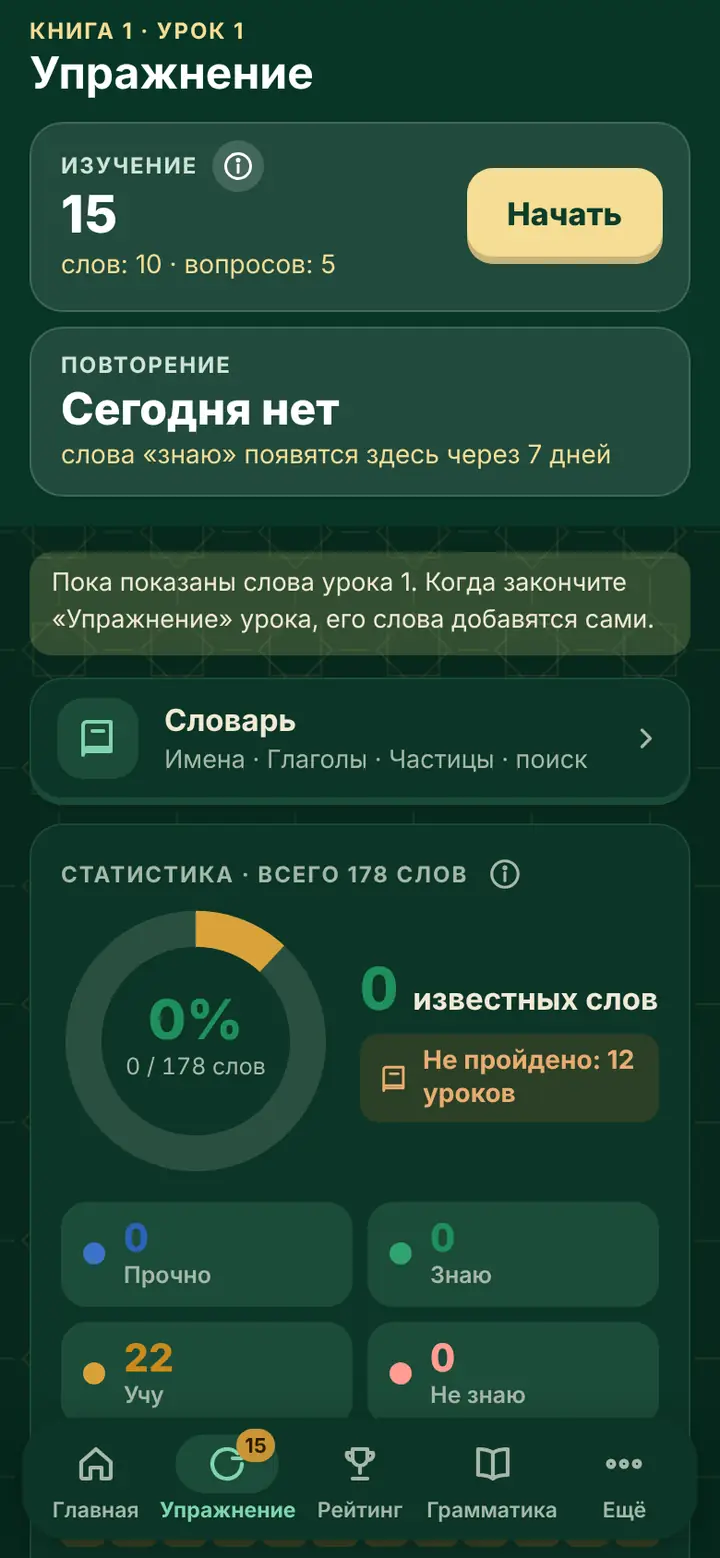
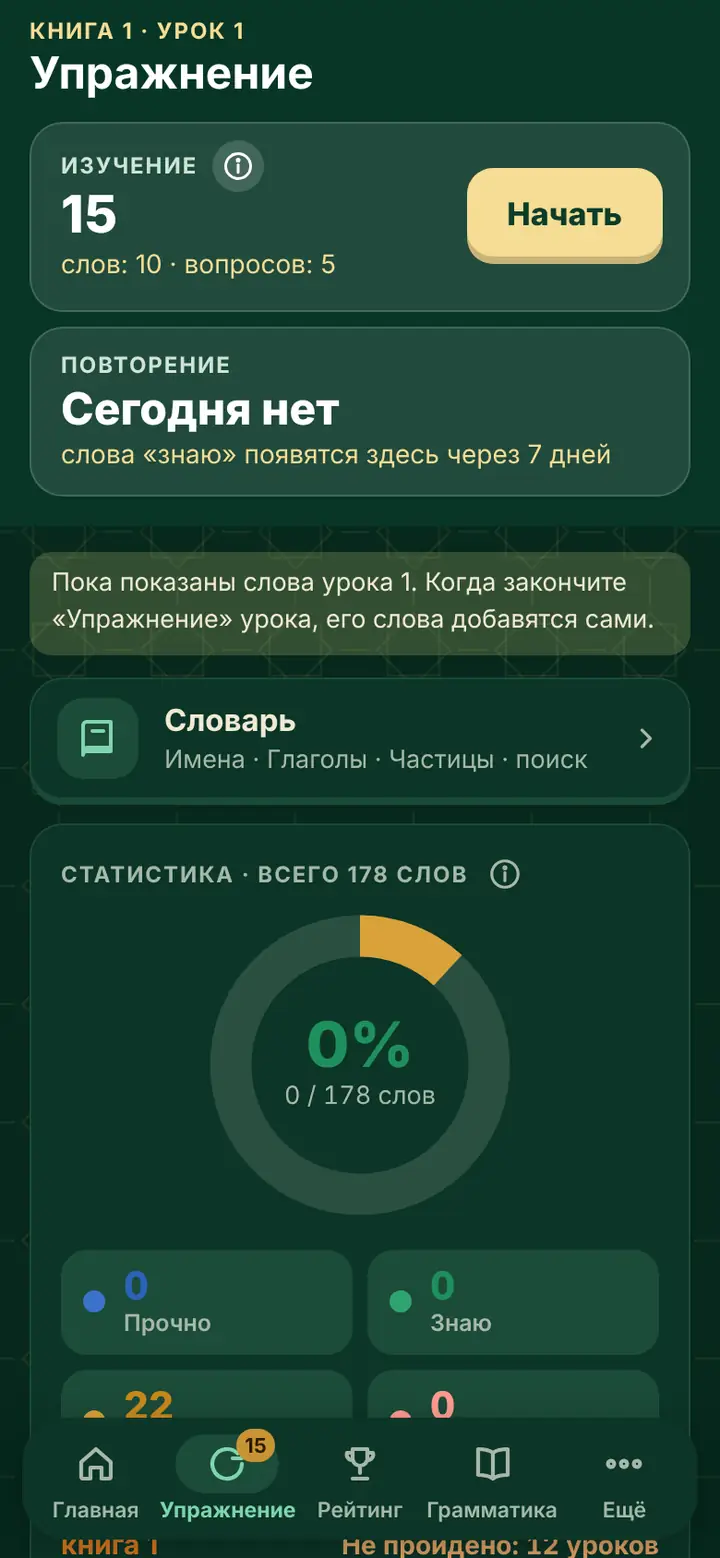
Машқ statistikasi soddalashdi: doira yonidagi takror yozuvlar olib tashlandi
Foydalanuvchi: «ortiqcha narsa, ortiqcha so'zlar kerak emas». «N сўзни биламан»,
«шундан … мустаҳкам», «N та дарс ўтилмаган» — pastdagi kartalar va kitob
qatorlarida bor; doira yolg'iz, o'rtada. Yo'riqnoma rasmlari qayta olindi.

Claude-Session: https://claude.ai/code/session_016qH1rRc63acz83KS5jFWgn

Changed region(s): [[0.0917, 0.5854, 0.9167, 0.9243], [0.0611, 0.9859, 0.9167, 1.0]]

diff --git a/takror.html b/takror.html
@@ -220,21 +220,16 @@ button:focus-visible,a:focus-visible{outline:2px solid var(--ac);outline-offset:
 .mq-i svg{width:18px;height:18px}
 .mq-i2{width:40px;height:40px;margin:0 0 0 auto}.mq-i2 svg{width:22px;height:22px}
 .lg-yn.mq-yn{margin:0 0 12px}
-.mq-dt{display:flex;align-items:center;gap:16px;margin:8px 0 14px}
-.mq-dz{position:relative;width:146px;height:146px;flex-shrink:0}
+/* 23.11.2026 (foydalanuvchi: «ortiqcha so'zlar kerak emas»): doira yolg'iz, o'rtada — o'ngdagi «N сўзни биламан», «шундан … мустаҳкам», «N та дарс ўтилмаган» olib tashlandi (pastdagi kartalar va kitob qatorlari takrorlardi) */
+.mq-dt{display:flex;align-items:center;justify-content:center;margin:10px 0 16px}
+.mq-dz{position:relative;width:168px;height:168px;flex-shrink:0}
 .mq-dz svg{width:100%;height:100%;transform:rotate(-90deg)}
 .mq-dz circle{fill:none;stroke-width:16}
 .mq-dz .m{stroke:#3a73cc}.mq-dz .g{stroke:#2fa36f}.mq-dz .o{stroke:#d9a23a}.mq-dz .b{stroke:var(--tq-no)}.mq-dz .n{stroke:color-mix(in srgb,var(--mu) 20%,transparent)}
 .mq-dz>div{position:absolute;inset:0;display:flex;flex-direction:column;align-items:center;justify-content:center}
-.mq-dz>div b{font-size:30px;line-height:1.05;font-weight:800;color:#1f8f5c}
-.mq-dz>div span{font-size:12.5px;color:var(--mu);font-variant-numeric:tabular-nums}
-.mq-dy{display:flex;flex-direction:column;gap:3px;min-width:0}
-.mq-dy .lg-bn{margin:0;flex-wrap:wrap;gap:4px 8px}.mq-dy .lg-bn b{font-size:32px}.mq-dy .lg-bn span{font-size:16.5px;font-weight:700;color:var(--tx)}
-.mq-dy em{font-style:normal;font-size:13.5px;font-weight:600;color:#2c63b8}
-.mq-dy small{font-size:13px;line-height:1.35;color:var(--mu)}
-/* o'tilmagan darslar (15.11.2026, A ko'rinish): sarlavha ostida «N та дарс ўтилмаган», kitob qatorida — har dars bitta bo'lak */
-.mq-qd{display:inline-flex;align-self:flex-start;align-items:center;gap:7px;margin:5px 0 0;padding:6px 10px;border-radius:10px;background:color-mix(in srgb,#E07A1F 15%,transparent);color:color-mix(in srgb,#E07A1F 55%,var(--tx));font-size:14px;font-weight:700;line-height:1.3}
-.mq-qd svg{flex:none;width:17px;height:17px}
+.mq-dz>div b{font-size:34px;line-height:1.05;font-weight:800;color:#1f8f5c}
+.mq-dz>div span{font-size:13.5px;color:var(--mu);font-variant-numeric:tabular-nums}
+/* o'tilmagan darslar (15.11.2026, A ko'rinish): kitob qatorida «N та дарс ўтилмаган», har dars bitta bo'lak */
 .mq-5{display:grid;grid-template-columns:1fr 1fr;gap:8px}
 .mq-c{display:flex;align-items:center;gap:10px;min-width:0;padding:9px 12px;border-radius:14px;border:0;background:var(--tint);text-align:left;color:var(--tx)}
 .mq-c.n{grid-column:1/-1;background:color-mix(in srgb,var(--mu) 9%,transparent)}
@@ -588,9 +583,7 @@ document.write('<script src="' + SN + 'takror.js"><\/script>');   /* 23.11.2026:
       app.innerHTML = tepa(S, false, bg, t) + sinovQ + (saralangan ? '' : '<p class="lg-yn mq-yn">Ҳозирча 1-дарс сўзлари кўрсатиляпти. Дарс «Машқ»ини тугатсангиз, унинг сўзлари ўзи қўшилади.</p>') +
         '<a class="q-rw mq-lg" href="#lugat"><span class="q-ib">' + KITOB + '</span><span class="t">Луғат<small>Исм · Феъл · Ҳарф · қидирув' + (ca.b ? ' · Билмаганларим ' + ca.b : '') + '</small></span>' + CHV + '</a>' +
         '<section class="tq-c"><div class="tq-h">Статистика · жами ' + JJ + ' сўз<button class="tq-ib" id="bi" data-qol="soz" aria-label="Сўзлар ва поғоналар — кўрсатма">' + INF + '</button></div>' +
-        '<div class="mq-dt"><div class="mq-dz">' + doira(JA, JJ) + '<div><b>' + Math.round((JA.m + JA.g) * 100 / (JJ || 1)) + '%</b><span>' + (JA.m + JA.g) + ' / ' + JJ + ' сўз</span></div></div>' +
-          '<div class="mq-dy"><div class="lg-bn"><b>' + (ca.g + ca.m) + '</b><span>сўзни биламан</span></div>' + (ca.m ? '<em>шундан ' + ca.m + ' таси мустаҳкам</em>' : '') +
-          '<p class="mq-qd">' + KITOB + '<span>' + (DH.q ? DH.q + ' та дарс ўтилмаган' : 'Ҳамма дарслар ўтилди') + '</span></p>' + '</div></div>' +
+        '<div class="mq-dt"><div class="mq-dz">' + doira(JA, JJ) + '<div><b>' + Math.round((JA.m + JA.g) * 100 / (JJ || 1)) + '%</b><span>' + (JA.m + JA.g) + ' / ' + JJ + ' сўз</span></div></div></div>' +
         '<div class="mq-5" role="group" aria-label="Ҳолат бўйича">' + ['m', 'g', 'o', 'b'].map(function (k) {
           return '<button class="mq-c ' + k + '" data-h="' + k + '"><i></i><span><b>' + JA[k] + '</b>' + HN5[k] + '</span></button>'; }).join('') + '</div>' +
         '<div class="mq-hl"></div>' + DH.kq.map(function (k) {   /* kitob qatori: «N та дарс ўтилмаган», har dars — bo'lak (30 tadan ko'p bo'lsa — bitta chiziq), ostida so'zlar */

diff --git a/docs/texnik.md b/docs/texnik.md
@@ -454,11 +454,11 @@ Umumiy reja (hisob, server, reyting, app — bosqichlar) — `docs/rejalar.md` 1
 
 ## 19. «Машқ» va «Рейтинг» (14.11.2026, foydalanuvchi qarori; dizayn — ikkala bo'limda 2-variant: https://claude.ai/artifact/HptYYYpetUFM84qJyrHYa1; saytda 14.11.2026 dan)
 - **Pastki tugmalar — 5 ta** (`qobiq.js` `B`): Бош саҳифа · **Машқ** (oldin «Луғат»; kalit `takror`, fayl `takror.html` o'zgarmadi) · **Рейтинг** (`reyting.html`, kalit `reyting`) · Қоидалар · Яна.
-- **«Машқ» bosh ko'rinishi** (`takror.html` `lugat()` → `lugKor()` yolg'on): yashil tasma ichida «Бугунги такрор · N та» (`E.bugun().soz + savol`), «N сўз · M савол», sariq «Бошлаш» (`#go`); tugasa — «Бугунга тамом · эртага N та». Ostida: «Луғат» qatori (`.mq-lg` → `#lugat`; «Исм · Феъл · Ҳарф · қидирув · Билмаганларим N»), «Статистика · жами N сўз» kartasi (ⓘ — «Сўзлар ва поғоналар» ko'rsatmasi, 20). **14.11.2026 kech (foydalanuvchi: chiziq to'lib, «hammasini bilaman»dek chalg'itardi; Claude Design'dagi C variant):** hisob **butun kitob so'zlari** bo'yicha — katta doira `doira()` (SVG halqa, 5 qism: 🔵 мустаҳкам · 🟢 биламан · 🟡 ўрганяпман · 🔴 билмайман · ⚪ ҳали ўтилмаган = «mening so'zlarim»ga hali kirmagan so'z), o'rtasida % va «biladigan / jami»; yonida «N сўзни биламан», «шундан M таси мустаҳкам», «K таси ҳали ўтилмаган»; 5 katak `.mq-c` (n dan boshqasi bosilsa — Луғат shu holat bilan); har kitobga 5 rangli chiziq `.mq-kb` «b / jami сўз · N таси қолди» (hamma kitoblar, ruschasi yo'q dars kirmaydi); turlar bo'yicha bilgan so'zlar `.mq-tr`. Dizayn: https://claude.ai/artifact/HptYYYpetUFM84qJyrHYa1 (C), «Рейтинг» qatori («Бу ҳафта N балл · M сўз») — **19.11.2026 da olib tashlandi** (foydalanuvchi: pastki menyuda «Рейтинг» bor — takror; `KUBOK`, `.mq-ib2` ham). Statistika hamma so'zlar bo'yicha (tur filtri `LT` ta'sir qilmaydi). **15.11.2026 (foydalanuvchi: qolganini so'z emas, dars soni bilan ko'rsatish — Claude Design'dagi A variant, ikkala tilda):** «N сўзни биламан» ostida `.mq-qd` — «N та дарс ўтилмаган» (hammasi o'tilgan bo'lsa «Ҳамма дарслар ўтилди»); 4 katak (мустаҳкам · биламан · ўрганяпман · билмайман; «ҳали ўтилмаган» katagi olib tashlandi, doirada kulrang qism qoldi); har kitob qatori (`.mq-kb`): «N-китоб» + «N та дарс ўтилмаган» / «Ҳаммаси ўтилди ✓», har dars bitta bo'lak (`i.ds`, o'tilgani — kitob rangida; 30 tadan ko'p bo'lsa — bitta chiziq), ostida «9 дарсдан 3 таси ўтилди · b / j сўз». O'tilgan dars — `darsH()`: bosh sahifa hisobi `yol-xulosa`.`ot` (yol.html `hisobla()` yozadi: «Машқ» 80% yoki bob/kitob imtihoni), u hali bo'lmasa — `W.s`; ruschasi yo'q («тез орада») dars sanalmaydi. `lugat()` dagi ishlatilmay qolgan «Луғат» kitob xulosasi (`kitobQ`, «сараланмаган» qatori) olib tashlandi. Ruscha matnlar — `src/ru/lugat-qobiq.txt` («Не пройдено: N {урок|урока|уроков}», «Из 9 уроков пройдено 3 · …»).
+- **«Машқ» bosh ko'rinishi** (`takror.html` `lugat()` → `lugKor()` yolg'on): yashil tasma ichida «Бугунги такрор · N та» (`E.bugun().soz + savol`), «N сўз · M савол», sariq «Бошлаш» (`#go`); tugasa — «Бугунга тамом · эртага N та». Ostida: «Луғат» qatori (`.mq-lg` → `#lugat`; «Исм · Феъл · Ҳарф · қидирув · Билмаганларим N»), «Статистика · жами N сўз» kartasi (ⓘ — «Сўзлар ва поғоналар» ko'rsatmasi, 20). **14.11.2026 kech (foydalanuvchi: chiziq to'lib, «hammasini bilaman»dek chalg'itardi; Claude Design'dagi C variant):** hisob **butun kitob so'zlari** bo'yicha — katta doira `doira()` (SVG halqa, 5 qism: 🔵 мустаҳкам · 🟢 биламан · 🟡 ўрганяпман · 🔴 билмайман · ⚪ ҳали ўтилмаган = «mening so'zlarim»ga hali kirmagan so'z), o'rtasida % va «biladigan / jami»; yonida «N сўзни биламан», «шундан M таси мустаҳкам», «K таси ҳали ўтилмаган»; 5 katak `.mq-c` (n dan boshqasi bosilsa — Луғат shu holat bilan); har kitobga 5 rangli chiziq `.mq-kb` «b / jami сўз · N таси қолди» (hamma kitoblar, ruschasi yo'q dars kirmaydi); turlar bo'yicha bilgan so'zlar `.mq-tr`. Dizayn: https://claude.ai/artifact/HptYYYpetUFM84qJyrHYa1 (C), «Рейтинг» qatori («Бу ҳафта N балл · M сўз») — **19.11.2026 da olib tashlandi** (foydalanuvchi: pastki menyuda «Рейтинг» bor — takror; `KUBOK`, `.mq-ib2` ham). Statistika hamma so'zlar bo'yicha (tur filtri `LT` ta'sir qilmaydi). **15.11.2026 (foydalanuvchi: qolganini so'z emas, dars soni bilan ko'rsatish — Claude Design'dagi A variant, ikkala tilda):** «N сўзни биламан» ostida `.mq-qd` — «N та дарс ўтилмаган» (hammasi o'tilgan bo'lsa «Ҳамма дарслар ўтилди»); 4 katak (мустаҳкам · биламан · ўрганяпман · билмайман; «ҳали ўтилмаган» katagi olib tashlandi, doirada kulrang qism qoldi); har kitob qatori (`.mq-kb`): «N-китоб» + «N та дарс ўтилмаган» / «Ҳаммаси ўтилди ✓», har dars bitta bo'lak (`i.ds`, o'tilgani — kitob rangida; 30 tadan ko'p bo'lsa — bitta chiziq), ostida «9 дарсдан 3 таси ўтилди · b / j сўз». O'tilgan dars — `darsH()`: bosh sahifa hisobi `yol-xulosa`.`ot` (yol.html `hisobla()` yozadi: «Машқ» 80% yoki bob/kitob imtihoni), u hali bo'lmasa — `W.s`; ruschasi yo'q («тез орада») dars sanalmaydi. `lugat()` dagi ishlatilmay qolgan «Луғат» kitob xulosasi (`kitobQ`, «сараланмаган» qatori) olib tashlandi. Ruscha matnlar — `src/ru/lugat-qobiq.txt` («Не пройдено: N {урок|урока|уроков}», «Из 9 уроков пройдено 3 · …»). **23.11.2026 (foydalanuvchi: «ortiqcha narsa, ortiqcha so'zlar kerak emas — hammasi sodda va tushunarli bo'lsin»):** doira yonidagi ustun (`.mq-dy`) olib tashlandi — «N сўзни биламан» (doirada «N / jami сўз» bor; «Биламан» katagidagi son bilan chalkashardi), «шундан M таси мустаҳкам» («Мустаҳкам» katagi bor), `.mq-qd` «N та дарс ўтилмаган» (kitob qatorlarida bor); doira yolg'iz, o'rtada (168px). Yo'riqnoma rasmlari (`qol/*-mashq`, `*-tamom`) qayta olindi.
 - **«Луғат» ko'rinishi** — shu sahifa, manzil `#lugat` (`#harflar` ham): tepada ‹ (orqaga — «Машқ»dan kelgan bo'lsa `history.back()`, aks holda manzil tozalanadi), 4 daraja filtri, qidiruv, turlar, ro'yxat — avvalgidek. `hashchange` — qayta chiziladi (mashg'ulot paytida emas).
 - **Reyting balli — `takror.js` `Takror.ball(jurnal, dan, gacha)`** (server ham shu funksiya bilan hisoblaydi): to'g'ri javob — 1 (bitta karta kuniga bir marta); so'z «биламан»ga yetsa (turli kunlarda ketma-ket 3 marta to'g'ri — `kunlar()` bilan bir xil) — +5, har so'zga bir marta; kuniga ko'pi bilan 200; 700 ms dan tez javob — ball yo'q; xato — minus yo'q. Kun va hafta — Toshkent vaqti (UTC+5) hamma uchun; hafta dushanba 00:00 dan (`Takror.haftaBoshi(t)`). Sozlamasi `Takror.REY`.
 - **Ruscha reyting (21.11.2026, foydalanuvchi: ruschada reyting alohida):** server hujjatning `ru` qismidan alohida hisoblaydi — kalitlar `rey:ru:h:<hb>`, `rey:ru:s` (ism umumiy `rey:ism`); `POST /api/reyting {kod, til:'ru'}` — ruscha ro'yxat (`reyting.html` ruscha profilda `til` yuboradi). Ikkala tilda o'qigan o'quvchi ikkala ro'yxatda o'z bali bilan.
-- **«Рейтинг» sahifasi** (`reyting.html`): «Ҳафта» (shu hafta bali; tepada «Янгиланишига N кун») va «Сўзлар» (`takror-xulosa.bilgan` — Машқdagi «N сўзни биламан»); bitta ro'yxat — har kishi bir qatorda, 1–50 (foydalanuvchi: shohsupa kerak emas; ko'rinish — foydalanuvchi tanlagan ElevenLabs rasmi bo'yicha, flow `vs0xZQUV2Mz7GVIAPbMu`: 1–3 — medal doirachalar, 4+ — kulrang doiracha, avatarlar pastel, 1-o'rin qatori och oltin + toj, o'z qatori och yashil, tasma pastki burchaklari yumaloq), o'quvchining o'z qatori pastda doim (`.r-me`: o'rni, «N-ўринга X балл қолди»). Ism — `ism` (Аккаунт); boshqa ismlar `\u2063` bilan (ru.js o'girmaydi). **Server (15.11.2026):** `api/reyting.js` + `api/_rey.js`, ombor — **Upstash Redis** (18.11.2026: Vercel Marketplace'da bepul tarif chiqmadi → upstash.com'ning o'zida Free, nomi «Reyting», us-east-1; Vercel'da env `UPSTASH_REDIS_REST_URL`/`UPSTASH_REDIS_REST_TOKEN` qo'lda, Secret, Production; kod `KV_REST_API_*` ni ham taniydi; env o'zgarsa — qayta joylash kerak). Har saqlashda (`api/soz.js` `yoz`) server o'quvchi hujjatidan qayta hisoblaydi: hafta bali — `Takror.ball(j, haftaBoshi)`, bilgan so'zlar — `_rey.js bilgan()` (`takror.html` `sozlar()`+`menHisob()` bilan bir xil, kun — Toshkent), ism — `tozaIsm` (ko'rinmas/yo'nalish belgilarisiz, 30 belgi); kalitlar `rey:h:<hb>` (ZSET, 21 kun), `rey:s` (ZSET), `rey:ism` (HASH); o'quvchi raqami — `sha256("rey:"+kod)` 20 belgi (kod javobda chiqmaydi); zaxira nusxa (`kod+eski`, `ar`) kirmaydi. `POST /api/reyting {kod?}` → `{hb, h:{top (50), o, b, ol}, s:{…}}`; reyting ulanishidan oldin saqlagan o'quvchi — birinchi so'rovda Blob'dagi hujjatidan bir marta hisoblanadi (`HEXISTS rey:ism`). Bir ko'rishda ~8 Redis buyrug'i, bir saqlashda 4. Sahifa: ochilganda va ilovaga qaytganda (30 s oraliq) so'raydi, oxirgi ro'yxat `reyting-kesh` da (darhol va internetsiz ko'rinadi); o'zining qatori — telefondagi (eng yangi) natija bilan, 50 dan pastda bo'lsa — serverdagi o'rni va «N-ўринга X қолди»; ismsiz — «Ўқувчи»/«Ученик»; kirmagan ham ro'yxatni ko'radi. Ombor ulanmagan bo'lsa (`{ok:false, xato:'ulanmagan'}`) — avvalgidek faqat o'zi + «тез орада». Ko'rish/sinov/localhost — namuna ro'yxat.
+- **«Рейтинг» sahifasi** (`reyting.html`): «Ҳафта» (shu hafta bali; tepada «Янгиланишига N кун») va «Сўзлар» (`takror-xulosa.bilgan` — biladigan so'zlar: мустаҳкам + биламан); bitta ro'yxat — har kishi bir qatorda, 1–50 (foydalanuvchi: shohsupa kerak emas; ko'rinish — foydalanuvchi tanlagan ElevenLabs rasmi bo'yicha, flow `vs0xZQUV2Mz7GVIAPbMu`: 1–3 — medal doirachalar, 4+ — kulrang doiracha, avatarlar pastel, 1-o'rin qatori och oltin + toj, o'z qatori och yashil, tasma pastki burchaklari yumaloq), o'quvchining o'z qatori pastda doim (`.r-me`: o'rni, «N-ўринга X балл қолди»). Ism — `ism` (Аккаунт); boshqa ismlar `\u2063` bilan (ru.js o'girmaydi). **Server (15.11.2026):** `api/reyting.js` + `api/_rey.js`, ombor — **Upstash Redis** (18.11.2026: Vercel Marketplace'da bepul tarif chiqmadi → upstash.com'ning o'zida Free, nomi «Reyting», us-east-1; Vercel'da env `UPSTASH_REDIS_REST_URL`/`UPSTASH_REDIS_REST_TOKEN` qo'lda, Secret, Production; kod `KV_REST_API_*` ni ham taniydi; env o'zgarsa — qayta joylash kerak). Har saqlashda (`api/soz.js` `yoz`) server o'quvchi hujjatidan qayta hisoblaydi: hafta bali — `Takror.ball(j, haftaBoshi)`, bilgan so'zlar — `_rey.js bilgan()` (`takror.html` `sozlar()`+`menHisob()` bilan bir xil, kun — Toshkent), ism — `tozaIsm` (ko'rinmas/yo'nalish belgilarisiz, 30 belgi); kalitlar `rey:h:<hb>` (ZSET, 21 kun), `rey:s` (ZSET), `rey:ism` (HASH); o'quvchi raqami — `sha256("rey:"+kod)` 20 belgi (kod javobda chiqmaydi); zaxira nusxa (`kod+eski`, `ar`) kirmaydi. `POST /api/reyting {kod?}` → `{hb, h:{top (50), o, b, ol}, s:{…}}`; reyting ulanishidan oldin saqlagan o'quvchi — birinchi so'rovda Blob'dagi hujjatidan bir marta hisoblanadi (`HEXISTS rey:ism`). Bir ko'rishda ~8 Redis buyrug'i, bir saqlashda 4. Sahifa: ochilganda va ilovaga qaytganda (30 s oraliq) so'raydi, oxirgi ro'yxat `reyting-kesh` da (darhol va internetsiz ko'rinadi); o'zining qatori — telefondagi (eng yangi) natija bilan, 50 dan pastda bo'lsa — serverdagi o'rni va «N-ўринга X қолди»; ismsiz — «Ўқувчи»/«Ученик»; kirmagan ham ro'yxatni ko'radi. Ombor ulanmagan bo'lsa (`{ok:false, xato:'ulanmagan'}`) — avvalgidek faqat o'zi + «тез орада». Ko'rish/sinov/localhost — namuna ro'yxat.
 - **Keyingi bosqichlar (`docs/rejalar.md` 1):** 1) «Феъллар» — bekor: ilovadan olib tashlandi, fe'llar va ovozlari saqlangan (7-bo'lim); 2) reyting serveri — **qilindi** (15.11.2026, yuqorida); qolgani: «Рейтингда кўринмаслик» tanlovi; ism tekshiruvi; takror tarixini ixchamlash (17-bo'lim); Feellardagi eski Google Sheets reytingi olib tashlanadi.
 - Ruscha: matnlar `src/ru/lugat-qobiq.txt` oxirida; «Машқ» — umumiy lug'atdagi «Упражнение». Tekshiruv `src/ru/tekshir/qobiq.py` — «Машқ», `#lugat` va «Рейтинг» ikkala yorlig'i ham ko'riladi.
 - **«Сўзлар» — faqat мустаҳкам (23.11.2026, foydalanuvchi qarori: «Биламан» tugmasi bilan reytingga chiqib bo'lmasin; 23.11 kech — мустаҳкам 7 + 21 kundan keyin, shu bilan ba'zi so'zlar биламан'ga qaytdi):** server `api/_rey.js` `bilgan()` — `Takror.holatlar()` bo'yicha мустаҳкам so'zlar; o'z qatori — `takror-xulosa.must`; yozuvlar «Ким нечта сўзни мустаҳкам билади», «Мустаҳкам сўзларингиз». Haftalik ball o'zgarmadi (ikkala bo'limdagi to'g'ri javob — 1 ball).

diff --git a/CLAUDE.md b/CLAUDE.md
@@ -64,7 +64,7 @@ Qoidalar to'qnashsa: grammatikada — konspekt; texnikada — `docs/texnik.md`; 
   | Lug'atda fe'l boshqaruvi: «(هُ هُ)» (faqat ikki maf'ulli), «(عَلَى ..)» + o'zbekchada «(...га)»; bitta «(هُ)» yozilmaydi (`lugat_sila.py`; `docs/texnik.md` 14) | 92, 94–98; 1–10 (8: صَلَّى، سَلَّمَ «(عَلَى ..)»; 10: سَكَنَ «(فِي ..)»; qolganlari belgisiz); 70, 71, 73, 91, 93 (`SILA`; 72, 74 — kerak emas); 90, 11, 12 (boshidanoq) | yangi darslar — boshidanoq |
   | Yangi tarkib ko'rinishi: rang — vazifa/holat oilasi, ramka — asosiy bo'lak o'rni, bosganda — ramka va chiziq (`docs/tarkib-korinishi.md`) | fiqh 1, 2 (saytda); hamma «Нур ут-толиб» darslari (`tarkib3.js`; saytda — 19.11.2026) | — (ruscha 1–12 va yangi darslar — saytda, 23.11.2026; `docs/texnik.md` 12) |
 - Oxirgi qilinganlar (14–23.11.2026; eskilari — `docs/tarix.md`):
-  - **So'z yo'li: мустаҳкам — 7 + 21 kun, xato yumshoq** (23.11.2026 kech; foydalanuvchi: «bir oy emasmidi?», «qancha bo'lgani yaxshi, izlan» → Anki «mature» 21 kun, Cepeda 2008, Leitner; «bitta xato hammasini ortga qaytarishi to'g'rimi?» → «ha shunday qil»; `tayyor-takror-21`; **joylashni kutyapti**): `takror.js` `birlik()` — биламан → 7 kun 1-tekshiruv → yana 21 kun 2-tekshiruv → мустаҳкам (xatosiz 31-kun, jami 5 savol); xato: ўрганяпман → 0/3 (ўрганяпманda qoladi), биламан/мустаҳкам → ўрганяпман 2/3; «билмайман» — faqat o'quvchi belgisi. `Takror.muddat()`, `SOZ.kutish2`; `takror.html` `qachon()`; yo'riqnoma (`qollanma.js` `must`/`xato` chizmalari, `{M2}`, matnlar uz/ru), `yoriqnoma.html` «Луғат ва такрорлаш». Batafsil — `docs/texnik.md` 14, 20.
+  - **So'z yo'li: мустаҳкам — 7 + 21 kun, xato yumshoq** (23.11.2026 kech; foydalanuvchi: «bir oy emasmidi?», «qancha bo'lgani yaxshi, izlan» → Anki «mature» 21 kun, Cepeda 2008, Leitner; «bitta xato hammasini ortga qaytarishi to'g'rimi?» → «ha shunday qil»; `tayyor-takror-21`; **joylashni kutyapti**): `takror.js` `birlik()` — биламан → 7 kun 1-tekshiruv → yana 21 kun 2-tekshiruv → мустаҳкам (xatosiz 31-kun, jami 5 savol); xato: ўрганяпман → 0/3 (ўрганяпманda qoladi), биламан/мустаҳкам → ўрганяпман 2/3; «билмайман» — faqat o'quvchi belgisi. `Takror.muddat()`, `SOZ.kutish2`; `takror.html` `qachon()`; yo'riqnoma (`qollanma.js` `must`/`xato` chizmalari, `{M2}`, matnlar uz/ru), `yoriqnoma.html` «Луғат ва такрорлаш». Batafsil — `docs/texnik.md` 14, 20. **Shu tarmoqda — statistika soddalashdi** (foydalanuvchi: «ortiqcha so'zlar kerak emas», 1-variant): doira yonidagi «N сўзни биламан», «шундан … мустаҳкам», «N та дарс ўтилмаган» olib tashlandi, doira o'rtada; `docs/texnik.md` 19.
   - **«Машқ» — ikki bo'lim: «Ўрганиш» va «Такрор»; bob/kitob imtihonlari olib tashlandi** (23.11.2026; foydalanuvchi: «mashqlar juda ko'payib ketyapti», «o'rganayotgan so'zlarga alohida, takror qiladiganlarga alohida», «qil»; `tayyor-takror-ikki`; **saytda** — 23.11.2026, «joyla»): FSRS o'rniga aniq yo'l — билмайман/ўрганяпман → «Ўрганиш»da 3 kun ketma-ket to'g'ri → биламан; «Биламан» tugmasi → darhol биламан («7 кундан кейин «Такрор»да сўралади» yozuvi); 7 kundan keyin «Такрор»da to'g'ri → мустаҳкам (boshqa so'ralmaydi), xato → билмайман; «Мустаҳкам» ro'yxatida 🔖 — yana «Ўрганиш»ga. Belgilar vaqt bilan (`W.a`/`W.b`), eski «аниқ биламан» va `W.k` — 7 kundan keyin tekshiriladi. Har javob darhol telefonda, mashg'ulotdan chiqqanda serverga ham. «Сўзлар» reytingi — faqat мустаҳкам. Ro'yxatda imtihon qatorlari yo'q, bob tugasa keyingi bob navbatda. Ikkala tilda; yo'riqnoma rasmlari qayta olindi. `takror.js`, `takror.html`, `yol.html`, `api/_rey.js`, `baza.js`, `shell.js`, `reyting.html`; `docs/texnik.md` 14, 15, 19, 20.
   - **Takror: oldingi kartani ko'rish + fe'lning harfi savolda** (23.11.2026; foydalanuvchi: «orqaga qaytadigan tugma yo'q», «faqat ko'rib olish uchun — bir marta belgilangan baho o'zgarmaydi», «harfini ham ko'rsatish kerak», «qil»; `tayyor-karta-orqaga`; **saytda** — 23.11.2026, «joyla»): mashg'ulotda ✕ yonida ← — oldingi kartalar javobi ochiq, qo'yilgan baho yozuv bo'lib turadi, «Давом этиш» (telefon «орқага»si ham) hozirgi kartaga qaytaradi; «Маъноси?»da fe'lning harfi (masalan, مَرَّ ning بِـ..) ochilmasdan oldin ham — belgi va gapdagi harf (yopishgani ham: بِالْعَرَبِ) o'z rangida. Ikkala tilda. `takror.html`, `tg.js`, `docs/texnik.md` 14.
   - **«Татбиқ» kitobi yangi ko'rinishda** (23.11.2026; foydalanuvchi Claude Design'dagi variantlardan «C + B» ni tanladi, «qilaver»; `tayyor-tatbiq-korinish`; **saytda** — 23.11.2026, «joyla»): kitob muqovasi buyumdek, to'liq nom «عِلْمُ الصَّرْفِ وَالنَّحْوِ وَتَطْبِيقُهُمَا», «Давом эттириш», «Мундарижа» mehrob shaklidagi rasmlar bilan; bob ichida rasm mehrob ramkasida, darslar yo'l bo'ylab; progress (✓, «ўқилди») olib tashlandi — faqat oxirgi ochilgan dars xatcho'pi; nomlar rangsiz, hamma bob bir xil qolipda; bob ranglari va rasmlari mavzuga mos (7–9 rasmlari ElevenLabs'da qayta chizildi, 243 kredit; qolganlarining foni kod bilan). `qoidalar.html`, `fon/g1–g10.jpg`, `fon/tatbiq-fon.jpg`, `docs/texnik.md` 18.
